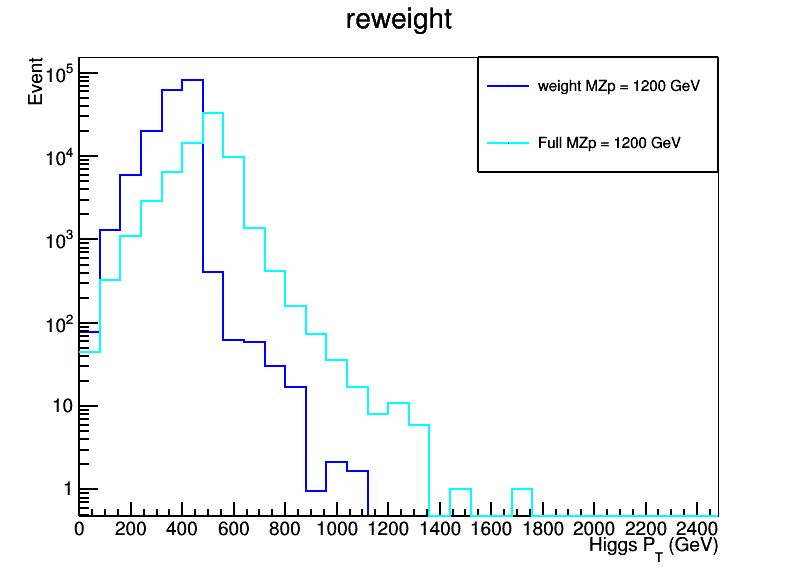
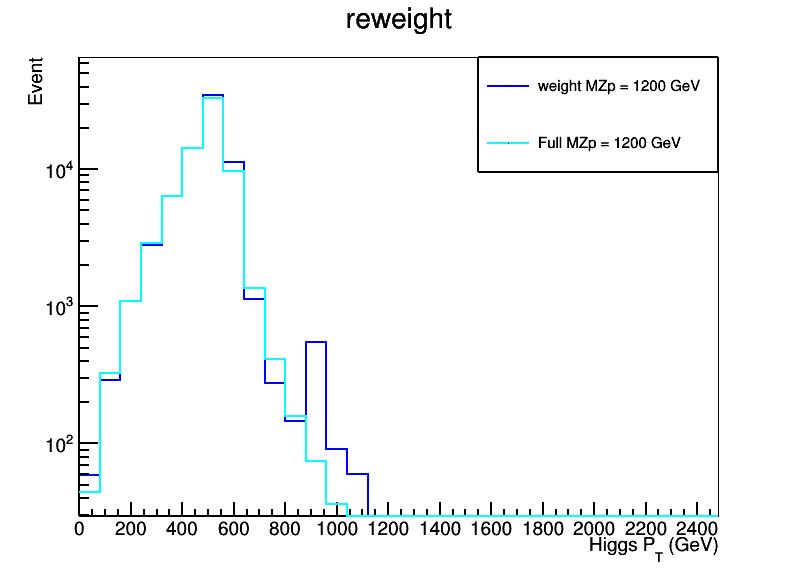
fix the problem of reweight figure

diff --git a/reweight.C b/reweight.C
@@ -14,8 +14,8 @@ void reweight() {
     gStyle->SetLineWidth(2);
     TCanvas *c1 = new TCanvas("c1","c1",800,600); 
     TLegend *leg = new TLegend(0.6,0.7,0.9,0.9);
-    TFile *f_mzp1200_gen = TFile::Open("output/gentuple_2HDM_MZp1000_MA0300_MDM100.root");
-    TFile *f_mzp1000_gen = TFile::Open("output/gentuple_2HDM_MZp1200_MA0300_MDM100.root");
+    TFile *f_mzp1000_gen = TFile::Open("output/gentuple_2HDM_MZp1000_MA0300_MDM100.root");
+    TFile *f_mzp1200_gen = TFile::Open("output/gentuple_2HDM_MZp1200_MA0300_MDM100.root");
     
     TH1F *h_mzp1000ma0300_gen = (TH1F*)f_mzp1000_gen->Get("Higgs_pt");
     TH1F *h_mzp1200ma0300_gen = (TH1F*)f_mzp1200_gen->Get("Higgs_pt"); 
